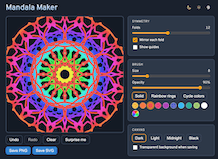
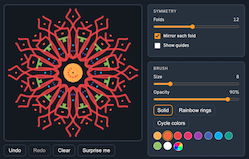
feat: add tibetan-singing-bowls to sitemap, esoterica, and home

diff --git a/esoterica.html b/esoterica.html
@@ -253,6 +253,48 @@
               /></svg
           ></a>
         </div>
+        <div class="gh">
+          <h3>
+            <a
+              class="extlink"
+              href="https://evoluteur.github.io/tibetan-singing-bowls/"
+              target="_blank"
+              >Tibetan Singing Bowls</a
+            >
+          </h3>
+          <a
+            class="card-pix"
+            href="https://evoluteur.github.io/tibetan-singing-bowls/"
+            target="_blank"
+            rel="noopener"
+            tabindex="-1"
+            aria-hidden="true"
+          >
+            <img
+              src="pix/code/tibetan-singing-bowls.png"
+              alt=""
+              loading="lazy"
+              onerror="this.parentNode.style.display = 'none'"
+            />
+          </a>
+          <p>
+            Strike or rub seven virtual singing bowls, synthesized live with
+            their beating overtones, and run a sound bath timer.
+          </p>
+          <a
+            class="card-gh"
+            href="https://github.com/evoluteur/tibetan-singing-bowls"
+            target="_blank"
+            rel="noopener"
+            title="Tibetan Singing Bowls on GitHub"
+            aria-label="Tibetan Singing Bowls on GitHub"
+            ><svg viewBox="0 0 16 16" width="22" height="22" aria-hidden="true">
+              <path
+                fill="currentColor"
+                d="M8 0C3.58 0 0 3.58 0 8c0 3.54 2.29 6.53 5.47 7.59.4.07.55-.17.55-.38 0-.19-.01-.82-.01-1.49-2.01.37-2.53-.49-2.69-.94-.09-.23-.48-.94-.82-1.13-.28-.15-.68-.52-.01-.53.63-.01 1.08.58 1.23.82.72 1.21 1.87.87 2.33.66.07-.52.28-.87.51-1.07-1.78-.2-3.64-.89-3.64-3.95 0-.87.31-1.59.82-2.15-.08-.2-.36-1.02.08-2.12 0 0 .67-.21 2.2.82.64-.18 1.32-.27 2-.27.68 0 1.36.09 2 .27 1.53-1.04 2.2-.82 2.2-.82.44 1.1.16 1.92.08 2.12.51.56.82 1.27.82 2.15 0 3.07-1.87 3.75-3.65 3.95.29.25.54.73.54 1.48 0 1.07-.01 1.93-.01 2.2 0 .21.15.46.55.38A8.013 8.013 0 0016 8c0-4.42-3.58-8-8-8z"
+              /></svg
+          ></a>
+        </div>
       </div>
 
       <h2>Sacred geometry</h2>
@@ -514,6 +556,17 @@
           ></a>
         </div>
       </div>
+
+      <p>
+        If you enjoy these free projects, feel free to
+        <a
+          href="https://github.com/sponsors/evoluteur"
+          class="extlink"
+          target="gh"
+          rel="noopener"
+          >become a Sponsor</a
+        >.
+      </p>
     </section>
 
     <script src="projects/projects-stats.js"></script>

diff --git a/js/memedia.js b/js/memedia.js
@@ -32,20 +32,14 @@ const mediaList = {
       url: "https://evoluteur.github.io/cymatics/",
     },
     {
+      id: "mandala-maker",
+      title: "Mandala Maker",
+      url: "https://evoluteur.github.io/mandala-maker/",
+    },
+    {
       id: "platonic-solids",
       title: "Platonic Solids",
       url: "https://evoluteur.github.io/platonic-solids/",
-    },
-
-    // {
-    //   id: "sacred-geometry",
-    //   title: "Sacred Geometry",
-    //   url: "https://evoluteur.github.io/sacred-geometry/",
-    // },
-    {
-      id: "healing-frequencies",
-      title: "Healing Frequencies",
-      url: "http://evoluteur.github.io/healing-frequencies",
     },
     {
       id: "motivational-numerology",
@@ -53,20 +47,25 @@ const mediaList = {
       url: "https://evoluteur.github.io/motivational-numerology/",
     },
     {
-      id: "mandala-maker",
-      title: "Mandala Maker",
-      url: "https://evoluteur.github.io/mandala-maker/",
+      id: "sacred-geometry",
+      title: "Sacred Geometry",
+      url: "https://evoluteur.github.io/sacred-geometry/#flower",
+    },
+    {
+      id: "tibetan-singing-bowls",
+      title: "Tibetan Singing Bowls",
+      url: "https://evoluteur.github.io/tibetan-singing-bowls/",
     },
     {
       id: "react-morph-charts",
       title: "React Morph Charts",
       url: "https://evoluteur.github.io/react-morph-charts/",
     },
-    {
-      id: "react-morph-table-cards",
-      title: "React Morph Table/Cards",
-      url: "https://evoluteur.github.io/react-morph-table-cards/",
-    },
+    // {
+    //   id: "react-morph-table-cards",
+    //   title: "React Morph Table/Cards",
+    //   url: "https://evoluteur.github.io/react-morph-table-cards/",
+    // },
     // {
     //   id: "time-management",
     //   title: "Time Management",
@@ -107,11 +106,11 @@ const mediaList = {
       title: "Structured Filter React",
       url: "http://evoluteur.github.io/structured-filter-react/",
     },
-    {
-      id: "van-tharp-marble-game",
-      title: "Van Tharp's Marble Game",
-      url: "http://evoluteur.github.io/van-tharp-marble-game",
-    },
+    // {
+    //   id: "van-tharp-marble-game",
+    //   title: "Van Tharp's Marble Game",
+    //   url: "http://evoluteur.github.io/van-tharp-marble-game",
+    // },
     // {
     //   id: "madeleinology",
     //   title: "Madeleinology",
